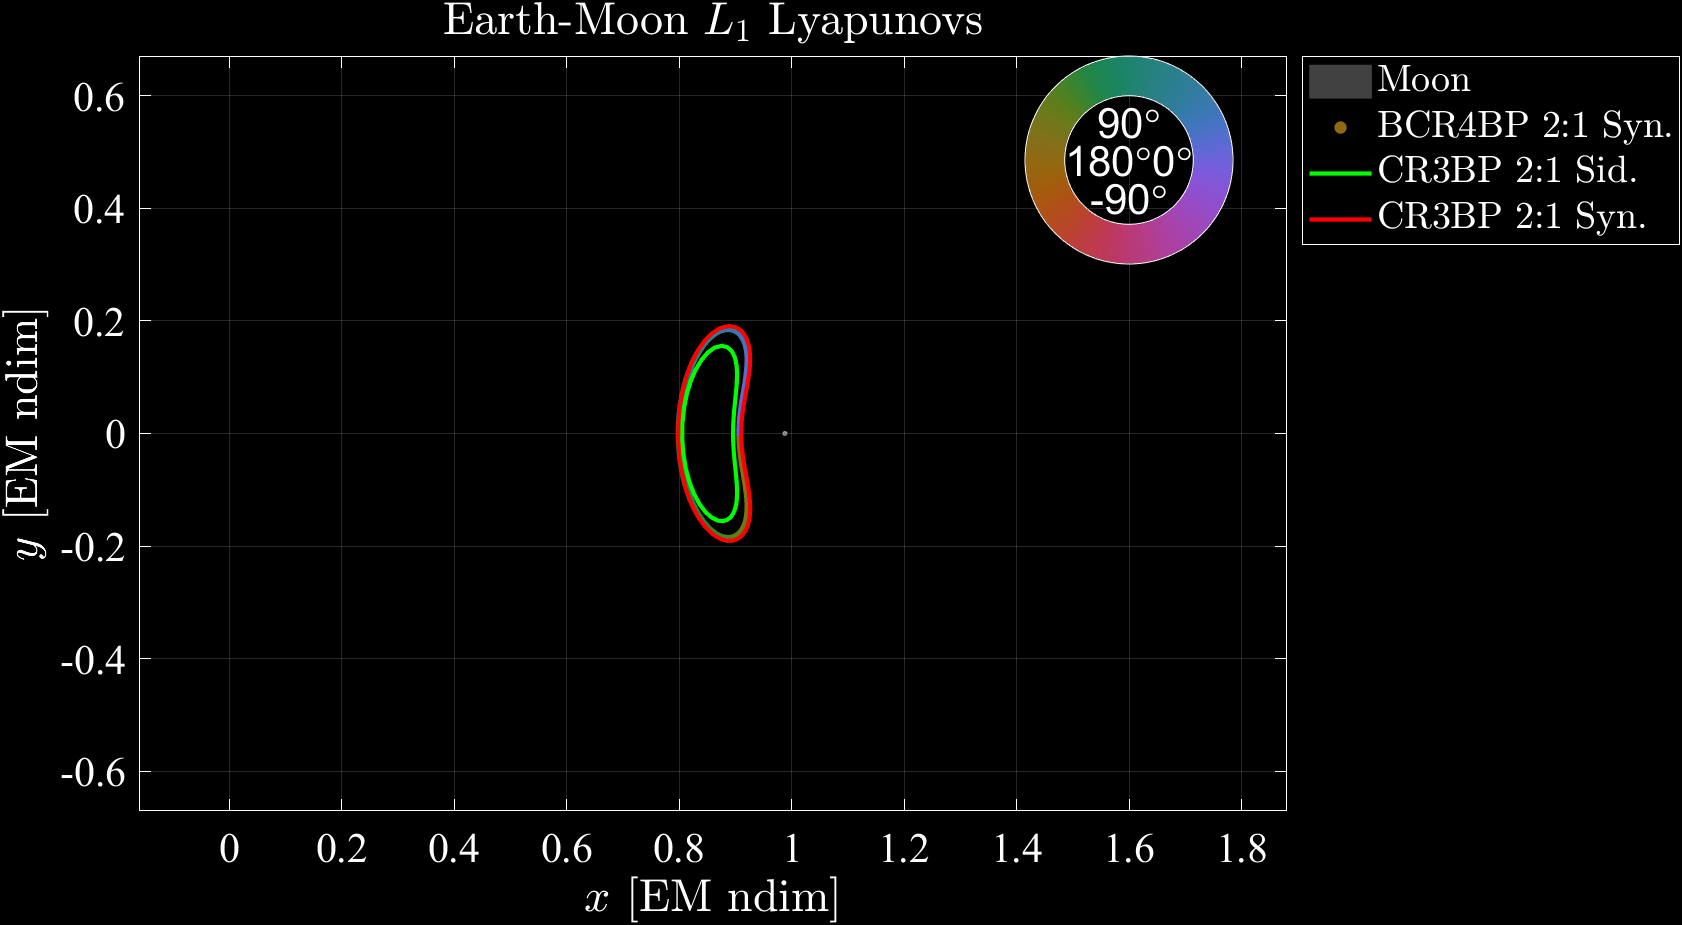
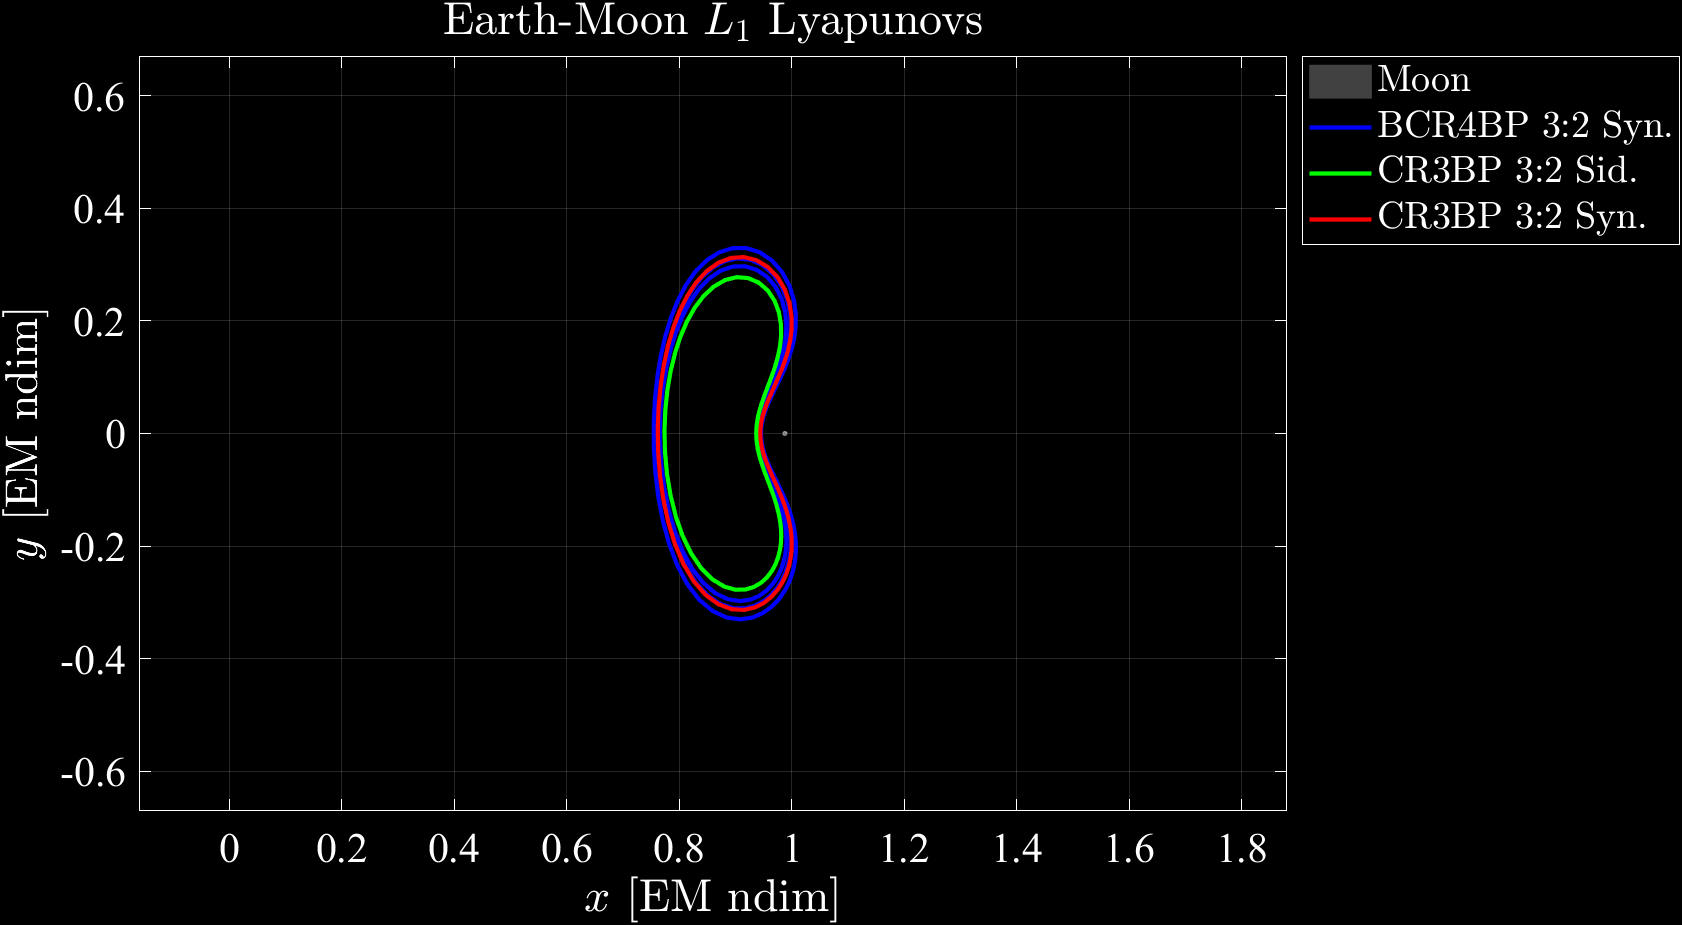
Created ManifoldComparison script and plotColorLine function

diff --git a/viridis.m b/viridis.m
@@ -1,0 +1,65 @@
+function map = viridis(N)
+% Perceptually uniform sequential colormap from MatPlotLib.
+%
+% Copyright (c) 2017-2020 Stephen Cobeldick
+%
+%%% Syntax:
+%  map = viridis
+%  map = viridis(N)
+%
+% Colormap designed by Eric Firing, Nathaniel J. Smith, and Stefan van der Walt.
+%
+% For MatPlotLib 2.0 improved colormaps were created in the perceptually
+% uniform colorspace CAM02-UCS. The new colormaps are introduced here:
+% <http://matplotlib.org/2.0.0rc2/users/dflt_style_changes.html>
+% The RGB data is from here: <https://bids.github.io/colormap/>
+%
+% Note VIRIDIS replaces the awful JET as the MatPlotLib default colormap.
+%
+%% Examples %%
+%
+%%% Plot the scheme's RGB values:
+% rgbplot(viridis(256))
+%
+%%% New colors for the COLORMAP example:
+% load spine
+% image(X)
+% colormap(viridis)
+%
+%%% New colors for the SURF example:
+% [X,Y,Z] = peaks(30);
+% surfc(X,Y,Z)
+% colormap(viridis)
+% axis([-3,3,-3,3,-10,5])
+%
+%% Input and Output Arguments %%
+%
+%%% Inputs (*=default):
+% N = NumericScalar, N>=0, an integer to define the colormap length.
+%   = *[], use the length of the current figure's colormap (see COLORMAP).
+%
+%%% Outputs:
+% map = NumericMatrix, size Nx3, a colormap of RGB values between 0 and 1.
+%
+% See also CIVIDIS INFERNO MAGMA PLASMA TWILIGHT TAB10 SET LINES COLORMAP PARULA
+if nargin<1 || isnumeric(N)&&isequal(N,[])
+	N = size(get(gcf,'colormap'),1);
+else
+	assert(isscalar(N)&&isfinite(N)&&isreal(N),...
+		'SC:viridis:N:NotRealFiniteScalarNumeric',...
+		'First argument <N> must be a real finite numeric scalar.')
+end
+%
+raw = [0.267004,0.004874,0.329415; 0.268510,0.009605,0.335427; 0.269944,0.014625,0.341379; 0.271305,0.019942,0.347269; 0.272594,0.025563,0.353093; 0.273809,0.031497,0.358853; 0.274952,0.037752,0.364543; 0.276022,0.044167,0.370164; 0.277018,0.050344,0.375715; 0.277941,0.056324,0.381191; 0.278791,0.062145,0.386592; 0.279566,0.067836,0.391917; 0.280267,0.073417,0.397163; 0.280894,0.078907,0.402329; 0.281446,0.084320,0.407414; 0.281924,0.089666,0.412415; 0.282327,0.094955,0.417331; 0.282656,0.100196,0.422160; 0.282910,0.105393,0.426902; 0.283091,0.110553,0.431554; 0.283197,0.115680,0.436115; 0.283229,0.120777,0.440584; 0.283187,0.125848,0.444960; 0.283072,0.130895,0.449241; 0.282884,0.135920,0.453427; 0.282623,0.140926,0.457517; 0.282290,0.145912,0.461510; 0.281887,0.150881,0.465405; 0.281412,0.155834,0.469201; 0.280868,0.160771,0.472899; 0.280255,0.165693,0.476498; 0.279574,0.170599,0.479997; 0.278826,0.175490,0.483397; 0.278012,0.180367,0.486697; 0.277134,0.185228,0.489898; 0.276194,0.190074,0.493001; 0.275191,0.194905,0.496005; 0.274128,0.199721,0.498911; 0.273006,0.204520,0.501721; 0.271828,0.209303,0.504434; 0.270595,0.214069,0.507052; 0.269308,0.218818,0.509577; 0.267968,0.223549,0.512008; 0.266580,0.228262,0.514349; 0.265145,0.232956,0.516599; 0.263663,0.237631,0.518762; 0.262138,0.242286,0.520837; 0.260571,0.246922,0.522828; 0.258965,0.251537,0.524736; 0.257322,0.256130,0.526563; 0.255645,0.260703,0.528312; 0.253935,0.265254,0.529983; 0.252194,0.269783,0.531579; 0.250425,0.274290,0.533103; 0.248629,0.278775,0.534556; 0.246811,0.283237,0.535941; 0.244972,0.287675,0.537260; 0.243113,0.292092,0.538516; 0.241237,0.296485,0.539709; 0.239346,0.300855,0.540844; 0.237441,0.305202,0.541921; 0.235526,0.309527,0.542944; 0.233603,0.313828,0.543914; 0.231674,0.318106,0.544834; 0.229739,0.322361,0.545706; 0.227802,0.326594,0.546532; 0.225863,0.330805,0.547314; 0.223925,0.334994,0.548053; 0.221989,0.339161,0.548752; 0.220057,0.343307,0.549413; 0.218130,0.347432,0.550038; 0.216210,0.351535,0.550627; 0.214298,0.355619,0.551184; 0.212395,0.359683,0.551710; 0.210503,0.363727,0.552206; 0.208623,0.367752,0.552675; 0.206756,0.371758,0.553117; 0.204903,0.375746,0.553533; 0.203063,0.379716,0.553925; 0.201239,0.383670,0.554294; 0.199430,0.387607,0.554642; 0.197636,0.391528,0.554969; 0.195860,0.395433,0.555276; 0.194100,0.399323,0.555565; 0.192357,0.403199,0.555836; 0.190631,0.407061,0.556089; 0.188923,0.410910,0.556326; 0.187231,0.414746,0.556547; 0.185556,0.418570,0.556753; 0.183898,0.422383,0.556944; 0.182256,0.426184,0.557120; 0.180629,0.429975,0.557282; 0.179019,0.433756,0.557430; 0.177423,0.437527,0.557565; 0.175841,0.441290,0.557685; 0.174274,0.445044,0.557792; 0.172719,0.448791,0.557885; 0.171176,0.452530,0.557965; 0.169646,0.456262,0.558030; 0.168126,0.459988,0.558082; 0.166617,0.463708,0.558119; 0.165117,0.467423,0.558141; 0.163625,0.471133,0.558148; 0.162142,0.474838,0.558140; 0.160665,0.478540,0.558115; 0.159194,0.482237,0.558073; 0.157729,0.485932,0.558013; 0.156270,0.489624,0.557936; 0.154815,0.493313,0.557840; 0.153364,0.497000,0.557724; 0.151918,0.500685,0.557587; 0.150476,0.504369,0.557430; 0.149039,0.508051,0.557250; 0.147607,0.511733,0.557049; 0.146180,0.515413,0.556823; 0.144759,0.519093,0.556572; 0.143343,0.522773,0.556295; 0.141935,0.526453,0.555991; 0.140536,0.530132,0.555659; 0.139147,0.533812,0.555298; 0.137770,0.537492,0.554906; 0.136408,0.541173,0.554483; 0.135066,0.544853,0.554029; 0.133743,0.548535,0.553541; 0.132444,0.552216,0.553018; 0.131172,0.555899,0.552459; 0.129933,0.559582,0.551864; 0.128729,0.563265,0.551229; 0.127568,0.566949,0.550556; 0.126453,0.570633,0.549841; 0.125394,0.574318,0.549086; 0.124395,0.578002,0.548287; 0.123463,0.581687,0.547445; 0.122606,0.585371,0.546557; 0.121831,0.589055,0.545623; 0.121148,0.592739,0.544641; 0.120565,0.596422,0.543611; 0.120092,0.600104,0.542530; 0.119738,0.603785,0.541400; 0.119512,0.607464,0.540218; 0.119423,0.611141,0.538982; 0.119483,0.614817,0.537692; 0.119699,0.618490,0.536347; 0.120081,0.622161,0.534946; 0.120638,0.625828,0.533488; 0.121380,0.629492,0.531973; 0.122312,0.633153,0.530398; 0.123444,0.636809,0.528763; 0.124780,0.640461,0.527068; 0.126326,0.644107,0.525311; 0.128087,0.647749,0.523491; 0.130067,0.651384,0.521608; 0.132268,0.655014,0.519661; 0.134692,0.658636,0.517649; 0.137339,0.662252,0.515571; 0.140210,0.665859,0.513427; 0.143303,0.669459,0.511215; 0.146616,0.673050,0.508936; 0.150148,0.676631,0.506589; 0.153894,0.680203,0.504172; 0.157851,0.683765,0.501686; 0.162016,0.687316,0.499129; 0.166383,0.690856,0.496502; 0.170948,0.694384,0.493803; 0.175707,0.697900,0.491033; 0.180653,0.701402,0.488189; 0.185783,0.704891,0.485273; 0.191090,0.708366,0.482284; 0.196571,0.711827,0.479221; 0.202219,0.715272,0.476084; 0.208030,0.718701,0.472873; 0.214000,0.722114,0.469588; 0.220124,0.725509,0.466226; 0.226397,0.728888,0.462789; 0.232815,0.732247,0.459277; 0.239374,0.735588,0.455688; 0.246070,0.738910,0.452024; 0.252899,0.742211,0.448284; 0.259857,0.745492,0.444467; 0.266941,0.748751,0.440573; 0.274149,0.751988,0.436601; 0.281477,0.755203,0.432552; 0.288921,0.758394,0.428426; 0.296479,0.761561,0.424223; 0.304148,0.764704,0.419943; 0.311925,0.767822,0.415586; 0.319809,0.770914,0.411152; 0.327796,0.773980,0.406640; 0.335885,0.777018,0.402049; 0.344074,0.780029,0.397381; 0.352360,0.783011,0.392636; 0.360741,0.785964,0.387814; 0.369214,0.788888,0.382914; 0.377779,0.791781,0.377939; 0.386433,0.794644,0.372886; 0.395174,0.797475,0.367757; 0.404001,0.800275,0.362552; 0.412913,0.803041,0.357269; 0.421908,0.805774,0.351910; 0.430983,0.808473,0.346476; 0.440137,0.811138,0.340967; 0.449368,0.813768,0.335384; 0.458674,0.816363,0.329727; 0.468053,0.818921,0.323998; 0.477504,0.821444,0.318195; 0.487026,0.823929,0.312321; 0.496615,0.826376,0.306377; 0.506271,0.828786,0.300362; 0.515992,0.831158,0.294279; 0.525776,0.833491,0.288127; 0.535621,0.835785,0.281908; 0.545524,0.838039,0.275626; 0.555484,0.840254,0.269281; 0.565498,0.842430,0.262877; 0.575563,0.844566,0.256415; 0.585678,0.846661,0.249897; 0.595839,0.848717,0.243329; 0.606045,0.850733,0.236712; 0.616293,0.852709,0.230052; 0.626579,0.854645,0.223353; 0.636902,0.856542,0.216620; 0.647257,0.858400,0.209861; 0.657642,0.860219,0.203082; 0.668054,0.861999,0.196293; 0.678489,0.863742,0.189503; 0.688944,0.865448,0.182725; 0.699415,0.867117,0.175971; 0.709898,0.868751,0.169257; 0.720391,0.870350,0.162603; 0.730889,0.871916,0.156029; 0.741388,0.873449,0.149561; 0.751884,0.874951,0.143228; 0.762373,0.876424,0.137064; 0.772852,0.877868,0.131109; 0.783315,0.879285,0.125405; 0.793760,0.880678,0.120005; 0.804182,0.882046,0.114965; 0.814576,0.883393,0.110347; 0.824940,0.884720,0.106217; 0.835270,0.886029,0.102646; 0.845561,0.887322,0.099702; 0.855810,0.888601,0.097452; 0.866013,0.889868,0.095953; 0.876168,0.891125,0.095250; 0.886271,0.892374,0.095374; 0.896320,0.893616,0.096335; 0.906311,0.894855,0.098125; 0.916242,0.896091,0.100717; 0.926106,0.897330,0.104071; 0.935904,0.898570,0.108131; 0.945636,0.899815,0.112838; 0.955300,0.901065,0.118128; 0.964894,0.902323,0.123941; 0.974417,0.903590,0.130215; 0.983868,0.904867,0.136897; 0.993248,0.906157,0.143936];
+%
+num = size(raw,1);
+% With small extrapolation when N>num:
+vec = linspace(0,num+1,N+2);
+map = interp1(1:num,raw,vec(2:N+1),'linear','extrap');
+% Interpolation only for all values of N:
+%map = interp1(1:num,raw,linspace(1,num,N),'spline')
+% Range limits:
+map = max(0,min(1,map));
+%
+end
+%%%%%%%%%%%%%%%%%%%%%%%%%%%%%%%%%%%%%%%%%%%%%%%%%%%%%%%%%%%%%%%%%%%%%%%%%%%viridis

diff --git a/ManifoldComparison.m b/ManifoldComparison.m
@@ -1,0 +1,63 @@
+%%% ManifoldComparison.jl
+%%% Jonathan Richmond
+%%% C: 10 June 2025
+
+clear
+load('../PhDScripts/Output/ManifoldComparison.mat')
+
+%% Earth-Moon Data
+gmE = 3.9860043543609593E5; % Earth gravitational parameter [km^3/s^2]
+mE = gmE/6.67384E-20; % Earth mass [kg]
+RE = 6.3710083666666660E3; % Earth radius [km]
+
+gmm = 4.9028000661637961E3; % Moon gravitational parameter [km^3/s^2]
+mm = gmm/6.67384E-20; % Moon mass [kg]
+Rm = 1.7374000000000003E3; % Moon radius [km]
+
+mu = gmm/(gmE+gmm); % Mass ratio
+mstar = (gmE+gmm)/6.67384E-20; % Characteristic mass [kg]
+lstar = 3.8474799201129237E5; % Characteristic length [km]
+tstar = sqrt(lstar^3/(gmE+gmm)); % Characteristic time [s]
+
+%% Plot
+fig1 = figure("Position", [200 100 1200 750]);
+hold on
+Earth = plot3DBody("Earth", RE/lstar, [-mu, 0, 0]);
+set(Earth, 'DisplayName', "Earth")
+Moon = plot3DBody("Moon", Rm/lstar, [1-mu, 0, 0]);
+set(Moon, 'DisplayName', "Moon")
+plot3(BCR4BPManifold.orbit.x, BCR4BPManifold.orbit.y, BCR4BPManifold.orbit.z, 'b', 'DisplayName', "BCR4BP Orbit")
+plot3(CR3BPManifold.orbit.x, CR3BPManifold.orbit.y, CR3BPManifold.orbit.z, 'r', 'DisplayName', "CR3BP Orbit")
+for j = 1:BCR4BPManifold.n
+    arc = plotColorLine(BCR4BPManifold.arcs{j}.x, BCR4BPManifold.arcs{j}.y, BCR4BPManifold.arcs{j}.theta4, 0.005);
+    if j == 1
+        set(arc, 'HandleVisibility', 'on', 'DisplayName', "BCR4BP Manifold")
+    end
+end
+for j = 1:CR3BPManifold.n
+    arc = plot3(CR3BPManifold.arcs{j}.x, CR3BPManifold.arcs{j}.y, CR3BPManifold.arcs{j}.z, 'r', 'LineWidth', 1, 'HandleVisibility', 'off', 'DisplayName', "CR3BP Manifold");
+    if j == 1
+        set(arc, 'HandleVisibility', 'on')
+    end
+end
+for j = 1:pseudoManifold.n
+    arc = plot3(pseudoManifold.arcs{j}.x, pseudoManifold.arcs{j}.y, pseudoManifold.arcs{j}.z, 'g', 'LineWidth', 1, 'HandleVisibility', 'off', 'DisplayName', "P-M ($\theta_{S_{0}}="+num2str(pseudoManifold.theta40*180/pi, '%.0f')+"^{\circ}$)");
+    if j == 1
+        set(arc, 'HandleVisibility', 'on')
+    end
+end
+axis equal
+% axis
+axis([-1.72 2.87 -2.34 0.68])
+grid on
+xlabel("$x$ [EM ndim]", 'Interpreter', 'latex')
+ylabel("$y$ [EM ndim]", 'Interpreter', 'latex')
+zlabel("$z$ [EM ndim]", 'Interpreter', 'latex')
+title("Earth-Moon $L_{1}$ 3:2 Lyapunov Manifolds", 'Interpreter', 'latex')
+leg1 = legend('Location', 'bestoutside', 'Interpreter', 'latex');
+phasemap
+phasebar('deg', 'Location', 'northeast', 'Size', 0.275);
+set(gca, 'Color', 'k');
+view(2)
+hold off
+% exportgraphics(fig1, 'ManifoldComparison_1.png', 'BackgroundColor', 'k')

diff --git a/EMPlanarOrbit.m b/EMPlanarOrbit.m
@@ -1,6 +1,7 @@
 %%% Plot BCR4BP Trajectory
 %%% Jonathan Richmond
 %%% C: 4 June 2025
+%%% U: 9 June 2025
 
 clear
 load('../PhDScripts/Output/EMPlanarOrbit.mat')
@@ -26,12 +27,12 @@ hold on
 % set(Earth, 'DisplayName', "Earth")
 Moon = plot3DBody("Moon", Rm/lstar, [1-mu, 0, 0]);
 set(Moon, 'DisplayName', "Moon")
-scatter3(BCR4BPOrbit.x, BCR4BPOrbit.y, BCR4BPOrbit.z, 10*ones(length(BCR4BPOrbit.t), 1), angleColor(BCR4BPOrbit.theta4), 'filled', 'DisplayName', "BCR4BP 1:1 Syn.")
-plot3(CR3BPGuessOrbit.x, CR3BPGuessOrbit.y, CR3BPGuessOrbit.z, 'g', 'DisplayName', "CR3BP 1:1 Sid.")
-plot3(CR3BPCompOrbit.x, CR3BPCompOrbit.y, CR3BPCompOrbit.z, 'r', 'DisplayName', "CR3BP 1:1 Syn.")
-% scatter3(BCR4BPOrbit2.x, BCR4BPOrbit2.y, BCR4BPOrbit2.z, 10*ones(length(BCR4BPOrbit2.t), 1), angleColor(BCR4BPOrbit2.theta4), 'filled', 'DisplayName', "BCR4BP 2:1 Syn.")
-% plot3(CR3BPGuessOrbit2.x, CR3BPGuessOrbit2.y, CR3BPGuessOrbit2.z, 'g', 'DisplayName', "CR3BP 2:1 Sid.")
-% plot3(CR3BPCompOrbit2.x, CR3BPCompOrbit2.y, CR3BPCompOrbit2.z, 'r', 'DisplayName', "CR3BP 2:1 Syn.")
+plot3(BCR4BPOrbit1.x, BCR4BPOrbit1.y, BCR4BPOrbit1.z, 'b', 'DisplayName', "BCR4BP 1:1 Syn.")
+plot3(CR3BPGuessOrbit1.x, CR3BPGuessOrbit1.y, CR3BPGuessOrbit1.z, 'g', 'DisplayName', "CR3BP 1:1 Sid.")
+plot3(CR3BPCompOrbit1.x, CR3BPCompOrbit1.y, CR3BPCompOrbit1.z, 'r', 'DisplayName', "CR3BP 1:1 Syn.")
+plot3(BCR4BPOrbit2.x, BCR4BPOrbit2.y, BCR4BPOrbit2.z, 'b', 'DisplayName', "BCR4BP 3:2 Syn.")
+plot3(CR3BPGuessOrbit2.x, CR3BPGuessOrbit2.y, CR3BPGuessOrbit2.z, 'g', 'DisplayName', "CR3BP 3:2 Sid.")
+plot3(CR3BPCompOrbit2.x, CR3BPCompOrbit2.y, CR3BPCompOrbit2.z, 'r', 'DisplayName', "CR3BP 3:2 Syn.")
 axis equal
 axis([-0.16 1.88 -0.67 0.67])
 grid on
@@ -40,8 +41,8 @@ ylabel("$y$ [EM ndim]", 'Interpreter', 'latex')
 zlabel("$z$ [EM ndim]", 'Interpreter', 'latex')
 title("Earth-Moon $L_{1}$ Lyapunovs", 'Interpreter', 'latex')
 legend('Location', 'bestoutside', 'Interpreter', 'latex');
-phasemap;
-phasebar('deg', 'Location', 'northeast', 'Size', 0.275)
+% phasemap;
+% phasebar('deg', 'Location', 'northeast', 'Size', 0.275)
 set(gca, 'Color', 'k');
 view(2)
 hold off

diff --git a/plotColorLine.m b/plotColorLine.m
@@ -1,0 +1,31 @@
+%%% plotColorLine
+%%% Jonathan Richmond
+%%% C: 10 June 2025
+
+function [p] = plotColorLine(x, y, theta4, w)
+
+dx = gradient(x);
+dy = gradient(y);
+l = sqrt(dx.^2+dy.^2);
+nx = -dy./l;
+ny = dx./l;
+v1 = [x+w*nx, y+w*ny];
+v2 = [x-w*nx, y-w*ny];
+n = length(x);
+vertices = zeros(2*n, 2);
+for j = 1:n
+    vertices(2*j-1,:) = v1(j,:);
+    vertices(2*j,:) = v2(j,:);
+end
+faces = zeros(n-1, 4);
+for j = 1:n-1
+    faces(j,:) = [2*j-1, 2*j, 2*j+2, 2*j+1];
+end
+c = angleColor(theta4);
+cVertex = zeros(2*n, 3);
+for j = 1:n
+    cVertex(2*j-1,:) = c(j,:);
+    cVertex(2*j,:) = c(j,:);
+end
+
+p = patch('Faces', faces, 'Vertices', vertices, 'FaceVertexCData', cVertex, 'FaceColor', 'interp', 'EdgeColor', 'none', 'HandleVisibility', 'off');

diff --git a/angleColor.m b/angleColor.m
@@ -8,7 +8,7 @@ valuesWrapped = phasewrap(values);
 colorMap = phasemap(1001);
 valueMap = linspace(-pi, pi, 1001);
 colors = zeros(length(values), 3);
-for i = 1:length(values)
-    [~, colorIndex] = min(abs(valueMap-valuesWrapped(i)));
-    colors(i,:) = colorMap(colorIndex,:);
+for j = 1:length(values)
+    [~, colorIndex] = min(abs(valueMap-valuesWrapped(j)));
+    colors(j,:) = colorMap(colorIndex,:);
 end
